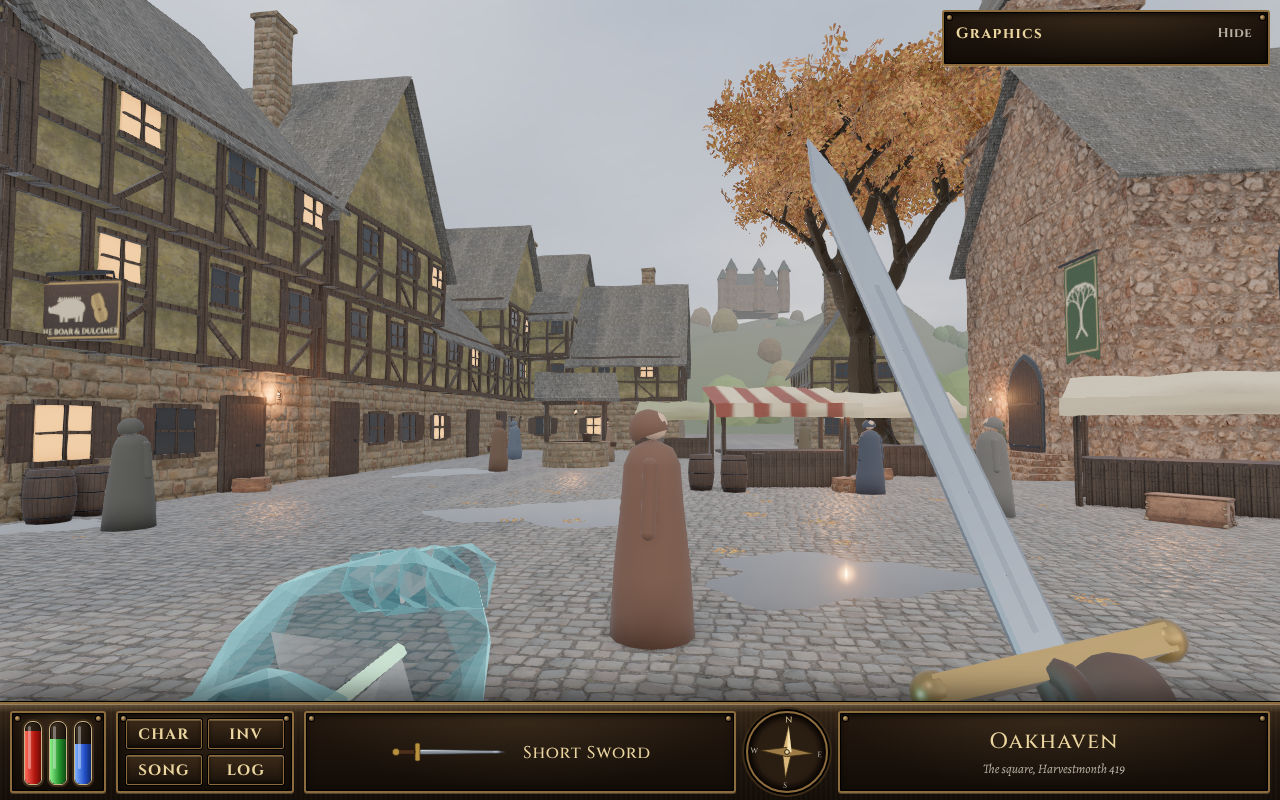
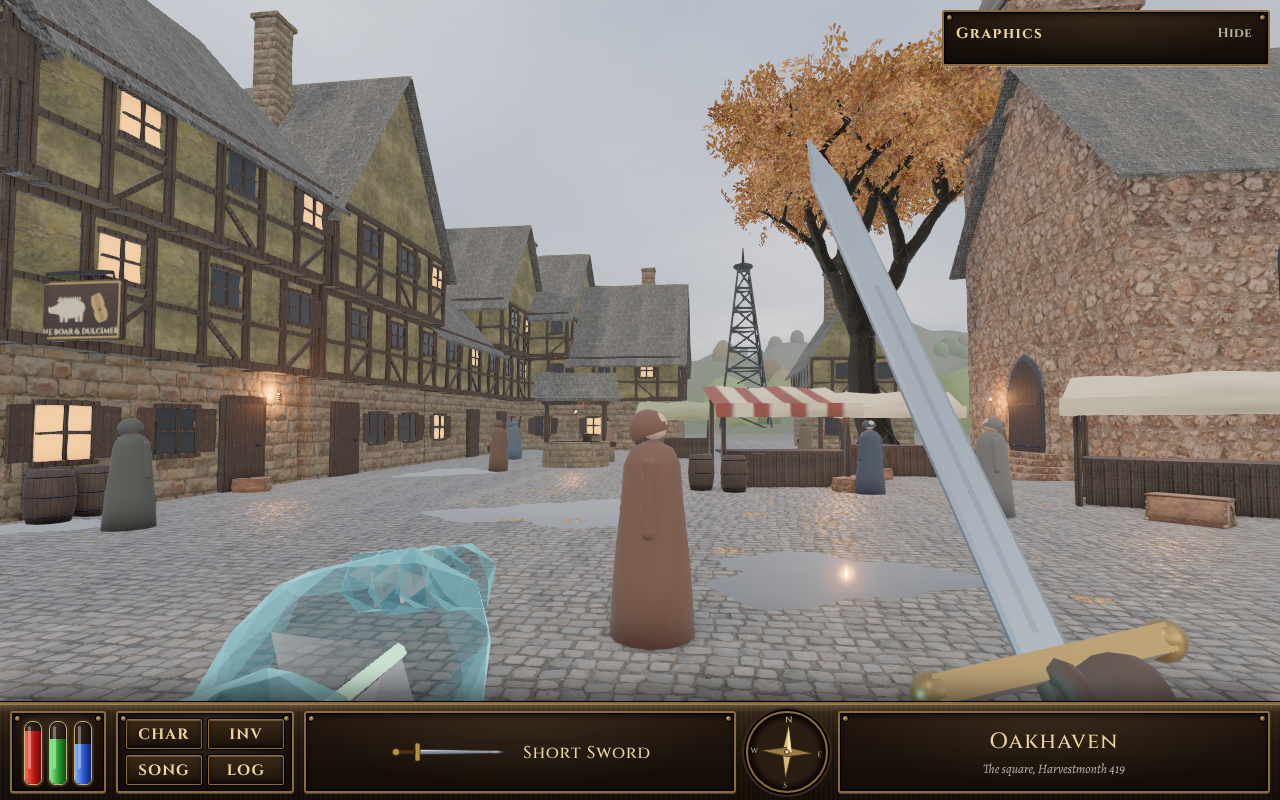
Proof scene: lore-accurate skyline (owner: keep everything lore accurate)
The castle is not in the books: it is replaced by the Consortium's mooring
mast over the quarry, north above the roofs ('a hundred and twenty feet of
riveted iron on four splayed legs'). The chapel's tree banner is removed (no
source). The tree is the square's iron-oak (Book One). README notes what in
the scene is still [PROPOSED].

Claude-Session: https://claude.ai/code/session_01UK584M5BVKhghBccRnHR4S

diff --git a/proof/oakhaven-square/index.html b/proof/oakhaven-square/index.html
@@ -174,7 +174,7 @@ button:focus-visible { outline: 2px solid var(--resonance); outline-offset: 2px;
   <div id="intro">
     <div class="card plate">
       <h2>Oakhaven, the square</h2>
-      <p>A proof scene for the new look: the square rebuilt in real 3D, with scanned stone, plaster, slate and cobbles, an overcast autumn sky, wet stones, lantern light, the great oak, the chapel with its empty belfry, and the Boar &amp; Dulcimer's sign.</p>
+      <p>A proof scene for the new look: the square rebuilt in real 3D, with scanned stone, plaster, slate and cobbles, an overcast autumn sky, wet stones, lantern light, the iron-oak, the Chapel with its empty belfry, the Boar &amp; Dulcimer's sign, and the Consortium's mooring mast over the quarry to the north.</p>
       <p class="keys">PC: click to look around, WASD or arrows to walk, Shift to hurry, Esc to free the mouse. Phone: drag on the left half to walk, on the right half to look.</p>
       <p class="keys">Pick a quality at the top right, then run the benchmark and copy the report back to Claude.</p>
       <div id="bar"><i></i></div>
@@ -369,7 +369,7 @@ function makeMaterials() {
   M.timber = scanned('medieval_wood', { color: 0x8a7a68 });
   M.slate = scanned('roof_slates_02', { color: 0x9aa0a6, ns: 1.2 });
   M.chapel = scanned('medieval_blocks_02', { color: 0xc9c4bb });
-  M.bark = scanned('bark_brown_02', { color: 0xa09080, ns: 1.6 });
+  M.bark = scanned('bark_brown_02', { color: 0x7d7a78, ns: 1.6 });   // the square's iron-oak: grey, near-metallic bark
   M.planks = scanned('weathered_planks', { color: 0xa08a70 });
   M.glassDark = new THREE.MeshStandardMaterial({ color: 0x14181b, roughness: 0.08, metalness: 0.0, envMapIntensity: 1.3 });
   M.glassLit = new THREE.MeshStandardMaterial({ color: 0x2a1a0a, emissive: 0xffa040, emissiveIntensity: 3.0, roughness: 0.3 });
@@ -487,9 +487,6 @@ function chapel(ox, oz, ry) {
   const spire = new THREE.ConeGeometry(3.3, 6.5, 4, 1); spire.rotateY(Math.PI / 4);
   f.part('slate', worldUV(spire, 2.2), tx, TH + 0.5 + 3.25, tz);
   f.part('iron', box(0.06, 1.2, 0.06), tx, TH + 7.4, tz);
-  // the banner: the Greening's oak, in thread
-  f.part('banner', new THREE.PlaneGeometry(1.5, 3.0), 2.6, 4.9, L / 2 + 0.05);
-  f.part('iron', box(1.8, 0.06, 0.06), 2.6, 6.45, L / 2 + 0.1);
   solid(f, -W / 2 - 0.8, -L / 2, W / 2 + 0.8, L / 2 + 1.4);
   lampSpots.push([...f.at(-1.7, L / 2 + 0.6)].reduce((a, v, i) => (i === 0 ? [v, 2.6] : [...a, v]), []));
   return f;
@@ -595,7 +592,7 @@ function buildLeaves() {
   groundLeaves.receiveShadow = true; scene.add(groundLeaves);
 }
 
-// the far country: hills, a forest, and the castle on its height, all in the haze
+// the far country: hills and a forest in the haze, and the mooring mast over the quarry
 function farCountry() {
   const size = 1600, seg = 160, g = new THREE.PlaneGeometry(size, size, seg, seg).rotateX(-Math.PI / 2);
   const p = g.attributes.position, cols = [], c = new THREE.Color();
@@ -603,7 +600,6 @@ function farCountry() {
   for (let i = 0; i < p.count; i++) {
     const x = p.getX(i), z = p.getZ(i), r = Math.hypot(x, z), k = THREE.MathUtils.smoothstep(r, 70, 420);
     let h = k * (38 + 34 * noise(x, z)) - 0.3;
-    const cx = x - 30, cz = z + 360; h += 42 * Math.exp(-(cx * cx + cz * cz) / (2 * 70 * 70));   // the castle's hill
     p.setY(i, r < 60 ? -0.2 : h);
     const t = THREE.MathUtils.clamp(h / 80, 0, 1); c.setRGB(lerp(.10, .17, t), lerp(.13, .16, t), lerp(.06, .10, t)); if (noise(x * 3, z * 3) > .8) c.multiplyScalar(.8);
     cols.push(c.r, c.g, c.b);
@@ -621,16 +617,22 @@ function farCountry() {
     forest.setMatrixAt(n, o.matrix); col.setHSL(rnd() < .55 ? 0.07 + rnd() * .05 : 0.2 + rnd() * .07, 0.5, 0.1 + rnd() * .07); forest.setColorAt(n, col); n++;
   }
   forest.count = n; forest.userData.max = n; scene.add(forest); far.forest = forest;
-  // the castle on its height (seen through the north lane)
-  const cy = 42 * 1.0 + 30, cx = 30, cz = -360, keep = 'chapel';
-  const k = frame(cx, cz, 0.2);
-  k.part(keep, worldUV(box(26, 18, 18), 6), 0, cy + 9, 0);
-  k.part('slate', worldUV(gableRoof(26.5, 18.5, 9, 0.6), 6), 0, cy + 18, 0);
-  for (const [a, b] of [[-17, -12], [17, -12], [-17, 12], [17, 12], [0, 15]]) {
-    k.part(keep, worldUV(new THREE.CylinderGeometry(3.4, 3.8, 26, 12), 6), a, cy + 13, b);
-    k.part('slate', worldUV(new THREE.ConeGeometry(4.3, 8, 12), 6), a, cy + 30, b);
+  // the Consortium's mooring mast over the quarry, above the roofs to the north: "a hundred and twenty feet of riveted
+  // iron on four splayed legs in the bedrock of the quarry rim" (Book One). 120 ft is about 36.5 m.
+  const mx = 9, mz = -112, H = 36.5, base = 5.5, top = 1.1;
+  const leg = (ax, az, bx, bz, y0, y1) => { const a = new THREE.Vector3(ax, y0, az), b = new THREE.Vector3(bx, y1, bz), len = a.distanceTo(b);
+    const g = new THREE.BoxGeometry(0.35, len, 0.35); g.translate(0, len / 2, 0); g.applyQuaternion(new THREE.Quaternion().setFromUnitVectors(new THREE.Vector3(0, 1, 0), b.clone().sub(a).normalize()));
+    g.translate(a.x, a.y, a.z); add('iron', g); };
+  const at = (y, sx, sz) => { const r = base + (top - base) * (y / H); return [mx + sx * r, mz + sz * r]; };
+  const corners = [[-1, -1], [1, -1], [1, 1], [-1, 1]];
+  for (const [sx, sz] of corners) { const [ax, az] = at(0, sx, sz), [bx, bz] = at(H, sx, sz); leg(ax, az, bx, bz, 0, H); }
+  for (let y = 4.5; y < H; y += 4.5) for (let i = 0; i < 4; i++) {   // ring girders and cross-bracing
+    const [sx, sz] = corners[i], [tx, tz] = corners[(i + 1) % 4];
+    const [ax, az] = at(y, sx, sz), [bx, bz] = at(y, tx, tz); leg(ax, az, bx, bz, y, y);
+    const [cx2, cz2] = at(y - 4.5, sx, sz); leg(cx2, cz2, bx, bz, y - 4.5, y);
   }
-  k.part(keep, worldUV(box(36, 9, 1.6), 6), 0, cy + 4.5, 12); k.part(keep, worldUV(box(36, 9, 1.6), 6), 0, cy + 4.5, -12);
+  add('iron', put(new THREE.CylinderGeometry(2.2, 2.2, 0.5, 12), mx, H + 0.25, mz));
+  add('iron', put(new THREE.CylinderGeometry(0.25, 0.25, 4, 8), mx, H + 2.4, mz));
 }
 const far = {};
 

diff --git a/proof/oakhaven-square/README.md b/proof/oakhaven-square/README.md
@@ -6,7 +6,8 @@ A walkable test of the realistic look (ROADMAP R11), built 8 November 2026. Open
 
 ## What is in it
 - **Engine:** Three.js 0.186.1 (WebGL 2), loaded from jsDelivr. Post-processing on Ultra and High: GTAO ambient occlusion, bloom on lamps and the glass arm's vein only, AgX tone mapping, SMAA. No depth of field and no blur, as ruled.
-- **The square:** houses with stone ground floors, jettied plaster upper floors and timber frames, slate roofs and chimneys (built in code, merged by material so the whole town is about 15 draws); the chapel with its bell-tower and the empty belfry (canon: nothing hangs in it); the Boar & Dulcimer's sign; the oak with 3,400 leaf cards and its fallen leaves; the well; four market stalls; casks; crates; lanterns with flickering lights; puddles that reflect the sky; the far hills, an autumn forest and a castle seen through the north lane.
+- **The square:** houses with stone ground floors, jettied plaster upper floors and timber frames, slate roofs and chimneys (built in code, merged by material so the whole town is about 15 draws); the chapel with its bell-tower and the empty belfry (canon: nothing hangs in it); the Boar & Dulcimer's sign; the iron-oak (canon: "in the square, the iron-oaks began to ring") with 3,400 leaf cards and its fallen leaves; the well; four market stalls; casks; crates; lanterns with flickering lights; puddles that reflect the sky; the far hills and an autumn forest; and, above the roofs to the north through the lane, the Consortium's mooring mast over the quarry (canon: "a hundred and twenty feet of riveted iron on four splayed legs").
+- **Lore (owner, 8 Nov: keep everything lore accurate):** the benchmark picture's castle and the chapel's tree banner are not in the books, so they are not here. Still [PROPOSED] in this scene: the layout of the square (in the books the Boar & Dulcimer stands on a corner of the square across from the Greenhall, which this scene doesn't build yet), the stalls, the well and the townsfolk's clothes. The game's own map decides these in the real build.
 - **First person:** the light-glass arm (a faceted glass shader, clear in the middle and bright at the edges, with the green vein inside) and the short sword in a gloved hand.
 - **HUD:** a bronze bar with the three vials, CHAR / INV / SONG / LOG, the weapon, a compass that turns, and the place name. On phones it collapses.
 - **Quality:** Ultra, High and Phone (top right), applied live. **Run benchmark** flies a fixed 20-second path and gives a report (frames, average, 95th and 99th percentile, draws, triangles, GPU name) to copy.
@@ -14,7 +15,7 @@ A walkable test of the realistic look (ROADMAP R11), built 8 November 2026. Open
 ## Assets and licences
 Every file here is CC0 (no rights reserved) or made in code.
 - **Poly Haven (CC0):** materials `cobblestone_floor_08`, `rustic_stone_wall`, `white_plaster_rough_02`, `medieval_wood`, `roof_slates_02`, `medieval_blocks_02`, `bark_brown_02`, `weathered_planks`; models `Lantern_01`, `wooden_crate_01`, `wooden_crate_02`; sky `kloofendal_overcast_puresky` (2k HDR). Fetched through the Poly Haven API on 8 Nov 2026.
-- **Made in code:** the houses, chapel, well, stalls, casks, oak, hills, forest, castle, people, glass arm, sword, and the painted textures (cloth, the inn sign, the chapel banner, leaves).
+- **Made in code:** the houses, chapel, well, stalls, casks, iron-oak, hills, forest, mooring mast, people, glass arm, sword, and the painted textures (cloth, the inn sign, leaves).
 - Some binary files carry a `.wasm` name (`*.buf.wasm`, `sky_2k.hdr.wasm`) because the artifact host only serves standard web types; they are plain glTF buffers and a Radiance HDR, and the loaders read them as bytes.
 
 ## Not in it yet
